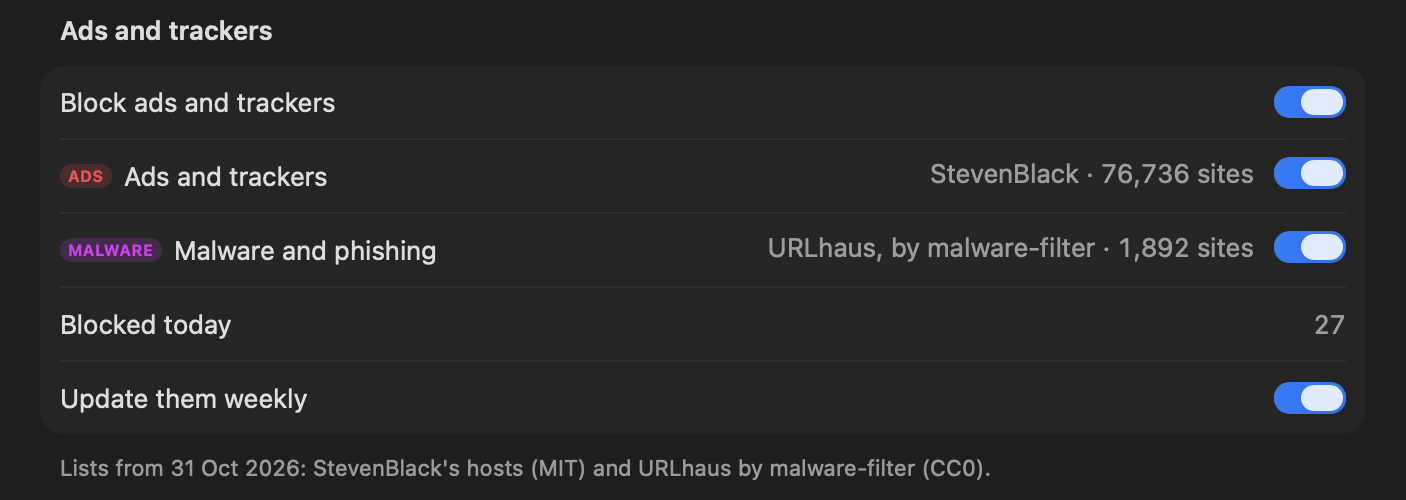
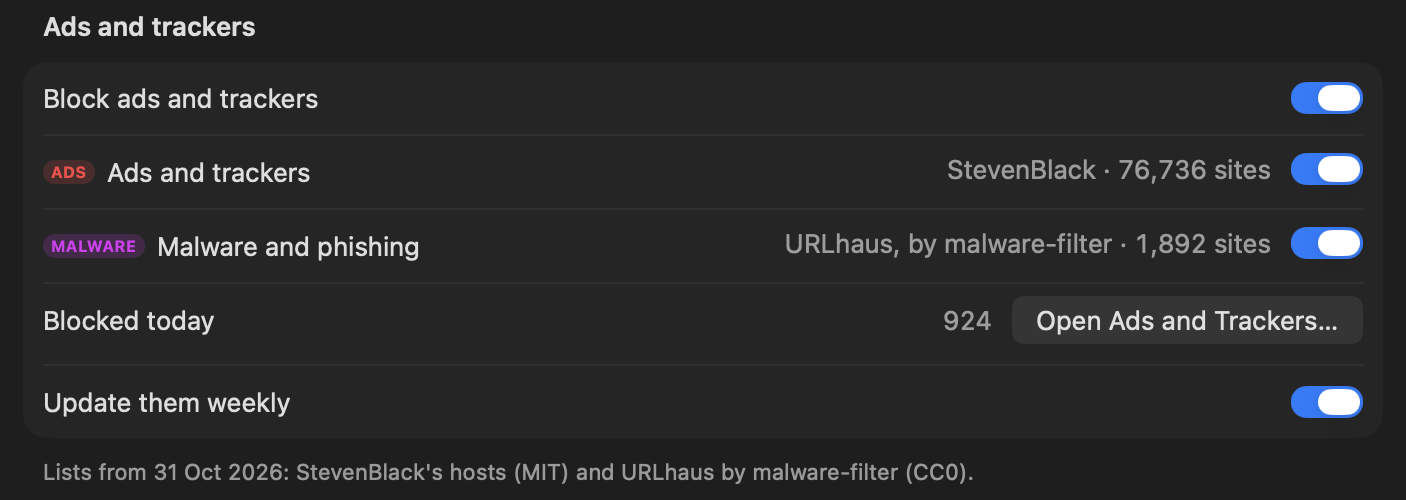
Bring the site up to 1.21.0 (#270) (#271)

diff --git a/index.html b/index.html
@@ -459,7 +459,7 @@ footer a { color: var(--text-2); }
         <a class="btn" href="https://github.com/kevinabouhanna/NetworkMonitor/releases/latest/download/NetworkMonitor.dmg" data-download>Download for Mac</a>
         <a class="more" href="https://github.com/kevinabouhanna/NetworkMonitor">View on GitHub</a>
       </div>
-      <p class="hero-meta reveal d3"><span>Version 1.20.4</span><span>macOS 13 or later</span><span>Apple silicon and Intel</span><span>Free and open source</span></p>
+      <p class="hero-meta reveal d3"><span>Version 1.21.0</span><span>macOS 13 or later</span><span>Apple silicon and Intel</span><span>Free and open source</span></p>
       <div class="featured reveal d3">
         <a href="https://www.trymacapps.com" target="_blank" rel="noopener">
           <img
@@ -731,7 +731,7 @@ footer a { color: var(--text-2); }
 
       <figure class="ad-blocker-shot reveal">
         <img src="assets/ad-blocker.png" width="1406" height="500" loading="lazy"
-             alt="The Ads and trackers section of Settings › Connections. Block ads and trackers is on, with two lists, each switched on: ADS, Ads and trackers, StevenBlack, 76,736 sites; MALWARE, Malware and phishing, URLhaus by malware-filter, 1,892 sites. Blocked today 27, and Update them weekly on. Lists from 31 Oct 2026: StevenBlack's hosts (MIT) and URLhaus by malware-filter (CC0).">
+             alt="The Ads and trackers section of Settings › Connections. Block ads and trackers is on, with two lists, each switched on: ADS, Ads and trackers, StevenBlack, 76,736 sites; MALWARE, Malware and phishing, URLhaus by malware-filter, 1,892 sites. Blocked today 924, with an Open Ads and Trackers… button, and Update them weekly on. Lists from 31 Oct 2026: StevenBlack's hosts (MIT) and URLhaus by malware-filter (CC0).">
       </figure>
 
       <div class="facts two">
@@ -741,11 +741,11 @@ footer a { color: var(--text-2); }
         </div>
         <div class="reveal">
           <h3>Yours to control.</h3>
-          <p>It’s off until you turn it on in Settings › Connections, and macOS asks you to allow the filter the first time. Each list has its own switch. Your own rules come first: if a list stops something you need, right-click it in Connections and allow it.</p>
+          <p>It’s off until you turn it on in Settings › Connections, and macOS asks you to allow the filter the first time. Each list has its own switch, and you can pause it all for an hour. Your own rules come first: if a list stops something you need, right-click it in the log or in Connections and allow it, everywhere or in one app.</p>
         </div>
         <div class="reveal">
           <h3>See what it stopped.</h3>
-          <p>Connections tags each listed server <b>ADS</b> or <b>MALWARE</b>, whether the lists are on or not, so you can see what’s tracking you before you decide. <b>Show: Blocked</b> lists what they stopped, and the popover says how many today.</p>
+          <p><b>Ads and Trackers</b> has a window of its own: how many were blocked in a day, week, month or year, over time, and the sites and apps most blocked. Its <b>Log</b> shows every connection as it’s decided, and why. The popover says how many today, and Connections tags each listed server <b>ADS</b> or <b>MALWARE</b>.</p>
         </div>
         <div class="reveal">
           <h3>Current by itself.</h3>
@@ -830,8 +830,8 @@ footer a { color: var(--text-2); }
                  alt="The Speed Test pane: Test your internet speed, with a Test Now button. A note says it runs macOS's built-in networkQuality only when you start it, download first, then upload, typically using 50 to 500 MB. Show the test in the popover as Card or Compact, with Card chosen.">
             <img class="prefs-shot" data-shot="history" data-w="720" data-h="785" src="assets/settings/history.png" width="1440" height="1570" loading="lazy" aria-hidden="true"
                  alt="The History pane on Today, with Day, Week, Month and Year, a ‹ Today › stepper, and All, Wi‑Fi and Hotspot. 1.5 GB used, all over Wi‑Fi, in a bar chart by the hour that peaks at about 740 MB at noon. Below it, Apps, biggest first: Software Update 522.3 MB, Google Chrome 320.5 MB, iTerm2 166.6 MB, Slack 133.8 MB, Xcode 86.4 MB, WhatsApp 76.5 MB and GoogleUpdater 38.9 MB. Networks and Sessions are the other two lists. Keep history for Forever, with Clear History… and Export CSV… buttons.">
-            <img class="prefs-shot" data-shot="connections" data-w="720" data-h="870" src="assets/settings/connections.png" width="1440" height="1740" loading="lazy" aria-hidden="true"
-                 alt="The Connections pane. Which companies, countries and servers your apps talk to, on a list and a world map, with an Open Connections… button. Under Blocking, Let apps connect offers Anywhere, Ask Me and Only Where I Allow, with Anywhere chosen; right-click a company, app, country or server in Connections to block it, or to always allow it. Rules, with Export… and Import… buttons. Under Ads and trackers, Block ads and trackers is on, with two lists, each switched on: ADS, Ads and trackers, StevenBlack, 76,736 sites; MALWARE, Malware and phishing, URLhaus by malware-filter, 1,892 sites. Blocked today 27, and Update them weekly on, with lists from 31 Oct 2026. Opens with List, Both or Map, with Both chosen. Countries and networks: DB-IP Lite, November 2026, Update them monthly, switched on, and Kept as long as Usage History.">
+            <img class="prefs-shot" data-shot="connections" data-w="720" data-h="889" src="assets/settings/connections.png" width="1440" height="1778" loading="lazy" aria-hidden="true"
+                 alt="The Connections pane. Which companies, countries and servers your apps talk to, on a list and a world map, with an Open Connections… button. Under Blocking, Let apps connect offers Anywhere, Ask Me and Only Where I Allow, with Anywhere chosen; right-click a company, app, country or server in Connections to block it, or to always allow it. Rules, with Export… and Import… buttons. Under Ads and trackers, Block ads and trackers is on, with two lists, each switched on: ADS, Ads and trackers, StevenBlack, 76,736 sites; MALWARE, Malware and phishing, URLhaus by malware-filter, 1,892 sites. Blocked today 924, with an Open Ads and Trackers… button, and Update them weekly on, with lists from 31 Oct 2026. Opens with List, Both or Map, with Both chosen. Countries and networks: DB-IP Lite, November 2026, Update them monthly, switched on, and Kept as long as Usage History.">
             <img class="prefs-shot" data-shot="hotspot" data-w="720" data-h="704" src="assets/settings/hotspot.png" width="1440" height="1408" loading="lazy" aria-hidden="true"
                  alt="The Hotspot pane. Stop apps updating on hotspots is on, and right now this doesn't look like a hotspot. This network is set to Detect automatically, with Is a hotspot and Isn't a hotspot to choose from. Paused on a hotspot (13) and Can't be paused (3) are both closed. Every app's updater: Stopped on hotspots. Got through on your last metered connection, in orange as both were paused: Slack downloaded an update anyway, up to 271.6 MB, and Google Chrome downloaded an update anyway, 265.6 MB.">
             <img class="prefs-shot" data-shot="hotspot-apps" data-w="720" data-h="870" src="assets/settings/hotspot-apps.png" width="1440" height="1740" loading="lazy" aria-hidden="true"
@@ -839,7 +839,7 @@ footer a { color: var(--text-2); }
             <img class="prefs-shot" data-shot="hotspot-uncovered" data-w="720" data-h="798" src="assets/settings/hotspot-uncovered.png" width="1440" height="1596" loading="lazy" aria-hidden="true"
                  alt="The Hotspot pane with Can't be paused (3) open, one line per app: OmniDiskSweeper, Opera and Raycast, with why behind an ⓘ that appears when you point at the row. Every app's updater: Stopped on hotspots, including ones listed as can't be paused when they update with a program of their own. Got through on your last metered connection, in orange: Slack downloaded an update anyway, up to 271.6 MB, and Google Chrome downloaded an update anyway, 265.6 MB.">
             <img class="prefs-shot" data-shot="about" data-w="720" data-h="710" src="assets/settings/about.png" width="1440" height="1420" loading="lazy" aria-hidden="true"
-                 alt="The About pane: the NetworkMonitor icon, Version 1.20.4 (133), and Live network speed in your menu bar, and which app used your data. Links to the website, the release notes and the source code on GitHub. Free and open source, under the MIT licence. Check for updates automatically is on, with a Check Now button: once a day it asks GitHub whether there's a newer version, never on a hotspot, and an update installs only when you say so, and only if it's signed by NetworkMonitor. Remove NetworkMonitor, with an Uninstall… button.">
+                 alt="The About pane: the NetworkMonitor icon, Version 1.21.0 (137), and Live network speed in your menu bar, and which app used your data. Links to the website, the release notes and the source code on GitHub. Free and open source, under the MIT licence. Check for updates automatically is on, with a Check Now button: once a day it asks GitHub whether there's a newer version, never on a hotspot, and an update installs only when you say so, and only if it's signed by NetworkMonitor. Remove NetworkMonitor, with an Uninstall… button.">
             <button class="prefs-row" type="button" aria-expanded="false" data-row="apps" style="--x:-340;--y:274;--w:680;--h:44" hidden>Paused on a hotspot</button>
             <button class="prefs-row" type="button" aria-expanded="false" data-row="uncovered" style="--x:-340;--y:372;--w:680;--h:44" hidden>Can’t be paused</button>
             <a class="prefs-link" href="#top" style="--x:150;--y:319;--w:182;--h:30" hidden>Website</a>
@@ -896,7 +896,7 @@ footer a { color: var(--text-2); }
           <p>The usual Mac way: open the disk image and drag NetworkMonitor into <strong>Applications</strong>.</p>
           <div class="get">
             <a class="btn" href="https://github.com/kevinabouhanna/NetworkMonitor/releases/latest/download/NetworkMonitor.dmg" data-download>Download NetworkMonitor.dmg</a>
-            <span class="meta">Version 1.20.4 · 12.4 MB · Universal</span>
+            <span class="meta">Version 1.21.0 · 12.6 MB · Universal</span>
           </div>
           <figure class="dmg-shot" style="margin-bottom:0">
             <img src="assets/dmg-window.png" width="1424" height="1104" loading="lazy"
@@ -913,7 +913,7 @@ footer a { color: var(--text-2); }
       </div>
 
       <div class="ctas reveal">
-        <a class="more" href="https://github.com/kevinabouhanna/NetworkMonitor/releases/tag/v1.20.4">What’s in version 1.20.4</a>
+        <a class="more" href="https://github.com/kevinabouhanna/NetworkMonitor/releases/tag/v1.21.0">What’s in version 1.21.0</a>
         <a class="more" href="https://github.com/kevinabouhanna/NetworkMonitor/wiki">Documentation</a>
         <a class="more" href="https://github.com/kevinabouhanna/NetworkMonitor">View on GitHub</a>
       </div>
